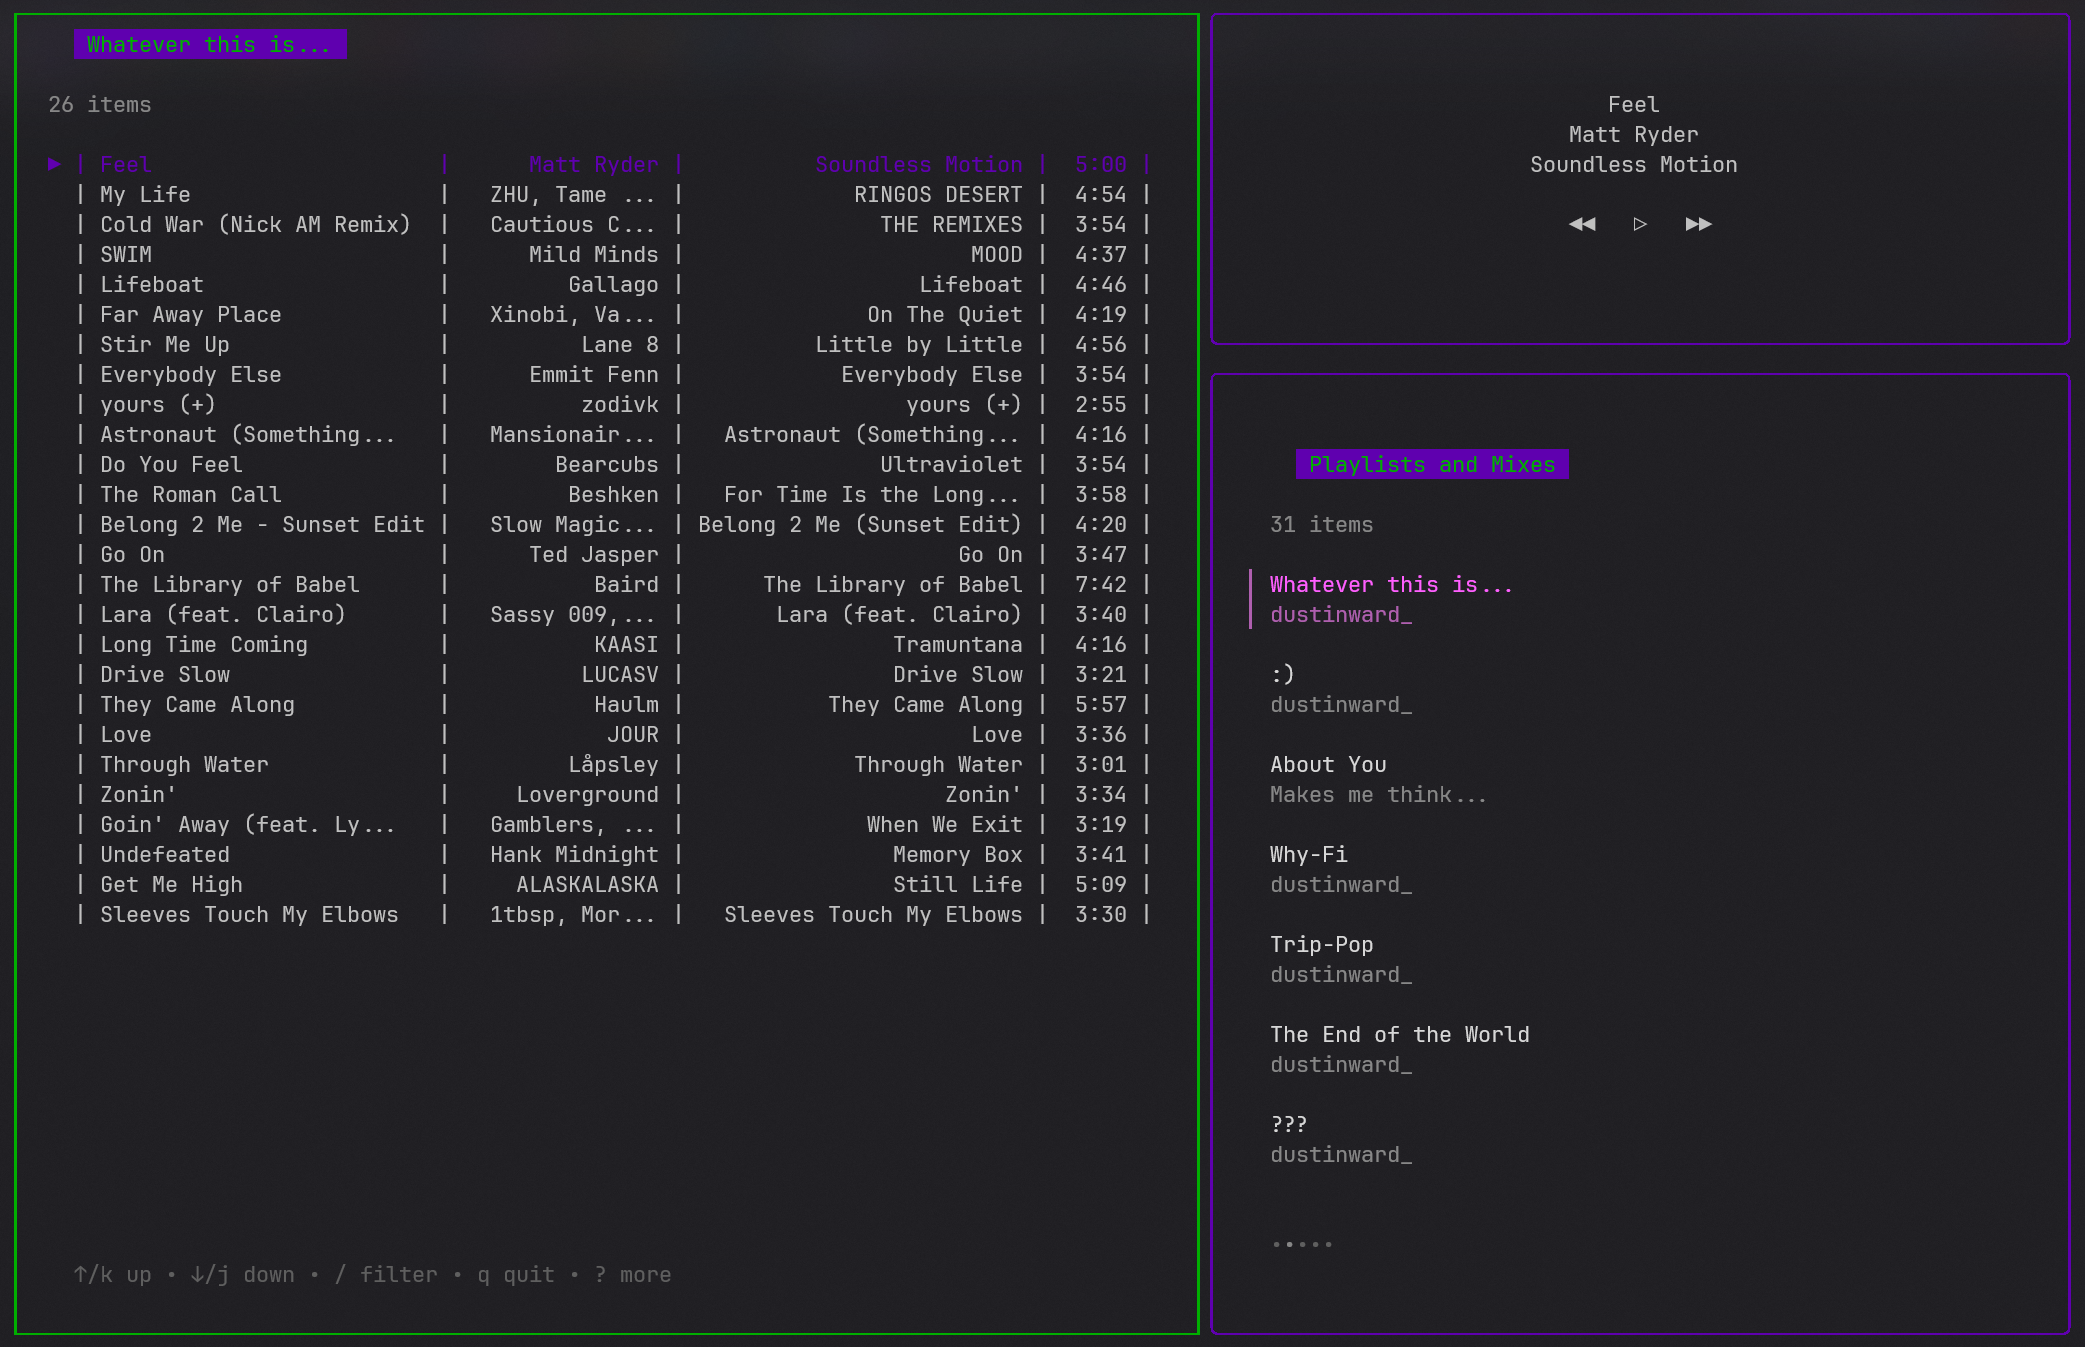
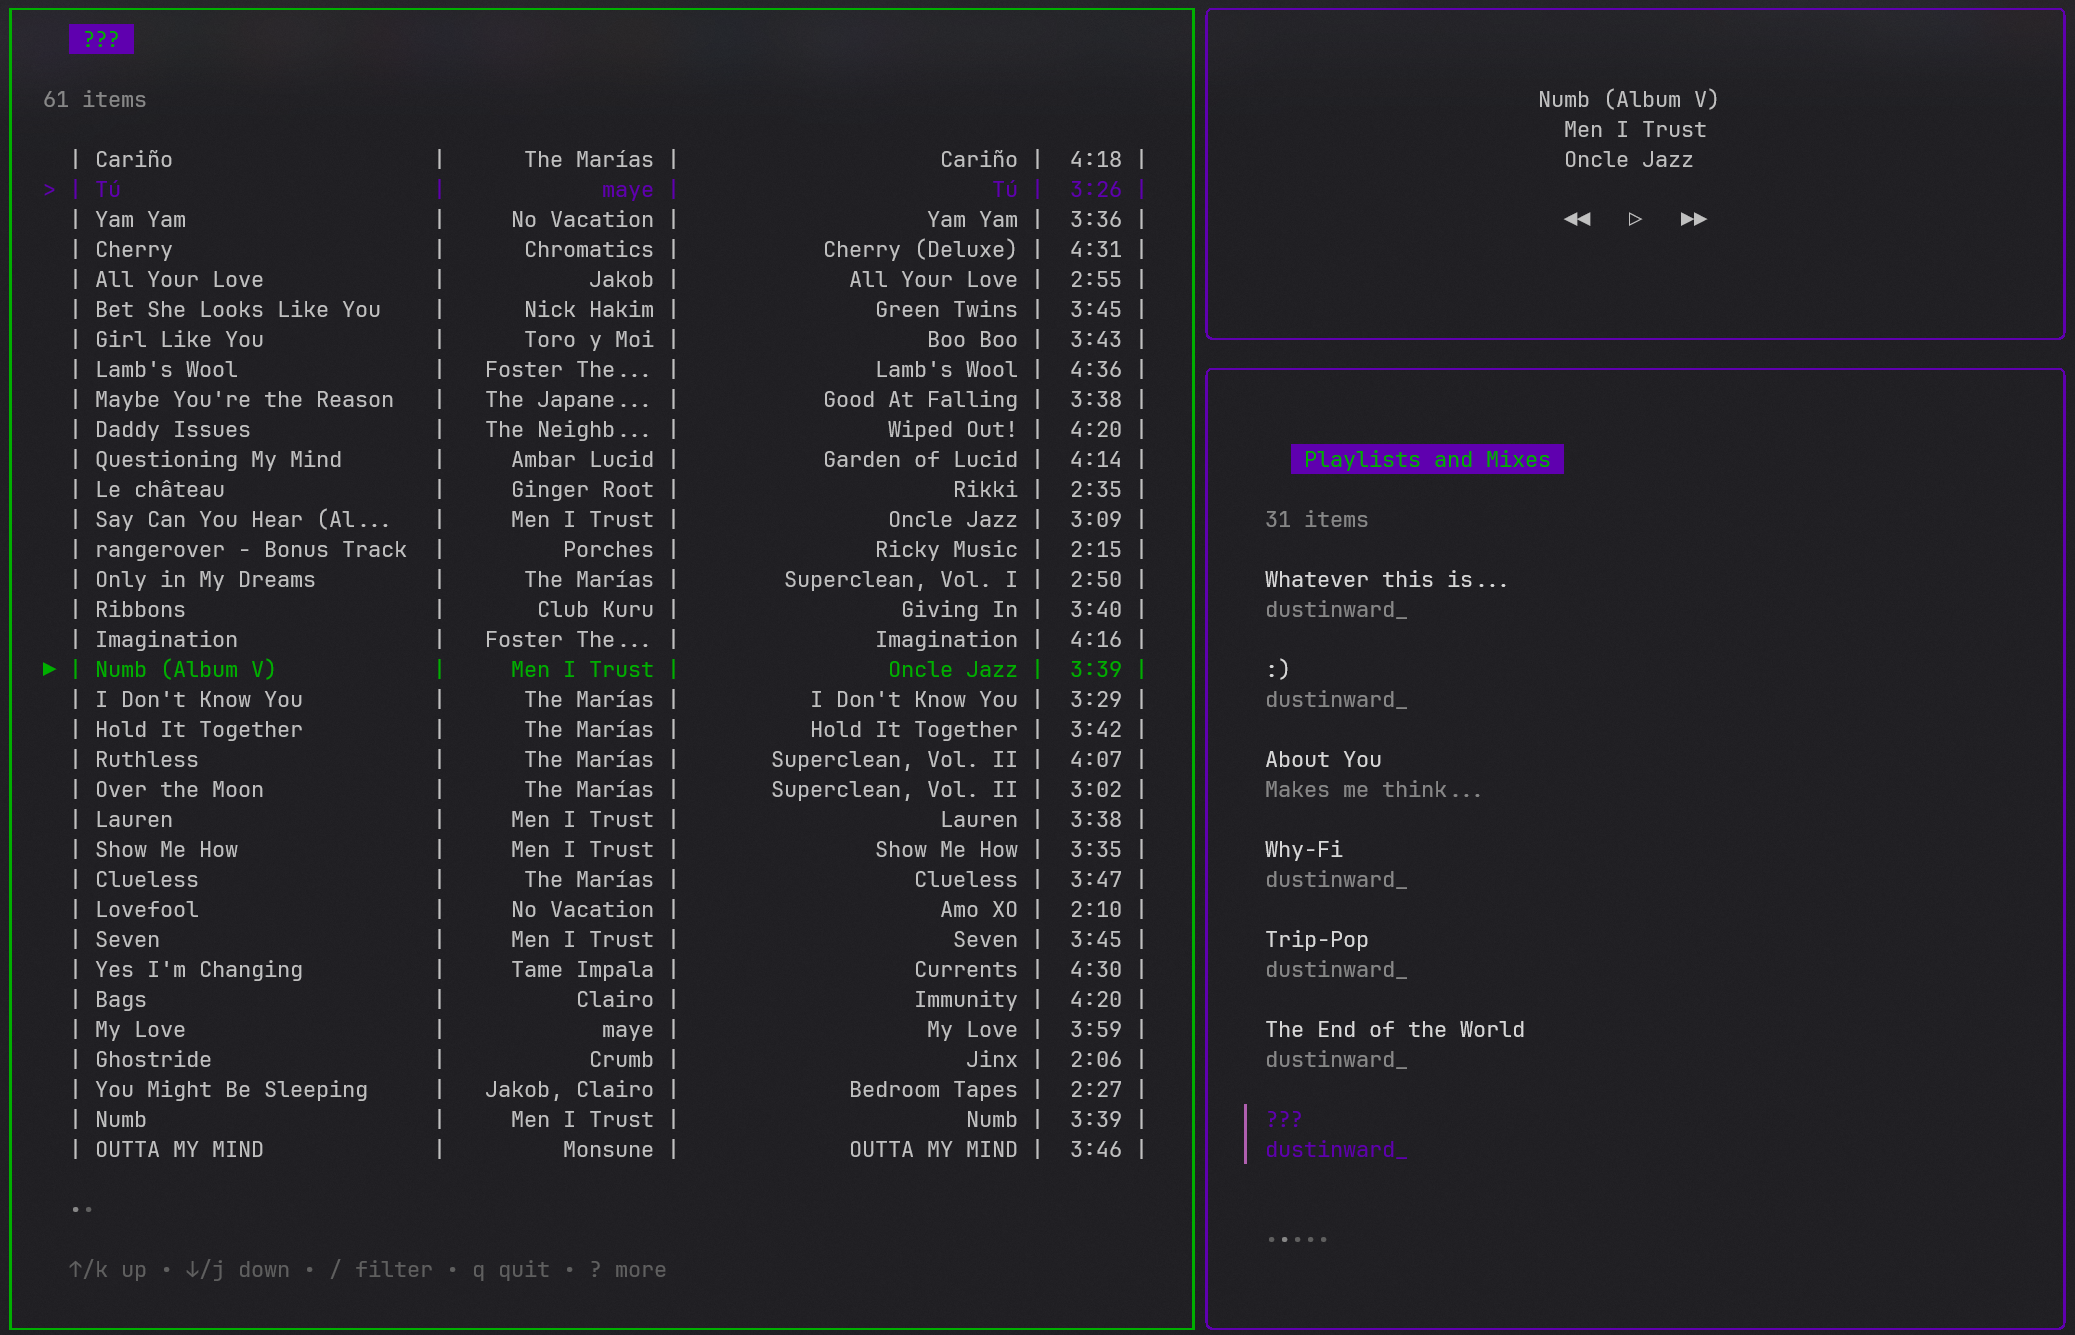
styling

diff --git a/components/collections.go b/components/collections.go
@@ -6,6 +6,7 @@ import (
 	"github.com/charmbracelet/bubbles/list"
 	tea "github.com/charmbracelet/bubbletea"
 	"github.com/charmbracelet/lipgloss"
+	"github.com/dustin-ward/spotify-tui/colours"
 	"github.com/dustin-ward/spotify-tui/spotifyapi"
 	"github.com/zmb3/spotify/v2"
 )
@@ -25,6 +26,7 @@ type SimplePlaylist struct {
 }
 
 func (p SimplePlaylist) Title() string { return p.Name }
+
 func (p SimplePlaylist) Description() string {
 	if p.SimplePlaylist.Description == "" {
 		return p.Owner.DisplayName
@@ -53,7 +55,11 @@ func NewCollectionsModel(userURI spotify.URI) CollectionsModel {
 		playlists = append(playlists, SimplePlaylist{p})
 	}
 
-	l := list.New(playlists, list.NewDefaultDelegate(), 58, 27)
+	d := list.NewDefaultDelegate()
+	d.Styles.SelectedTitle = d.Styles.SelectedTitle.Foreground(colours.PURPLE)
+	d.Styles.SelectedDesc = d.Styles.SelectedDesc.Foreground(colours.PURPLE)
+
+	l := list.New(playlists, d, 58, 27)
 	l.Title = "Playlists and Mixes"
 	l.Styles.Title = titleStyle
 	l.SetShowHelp(false)
